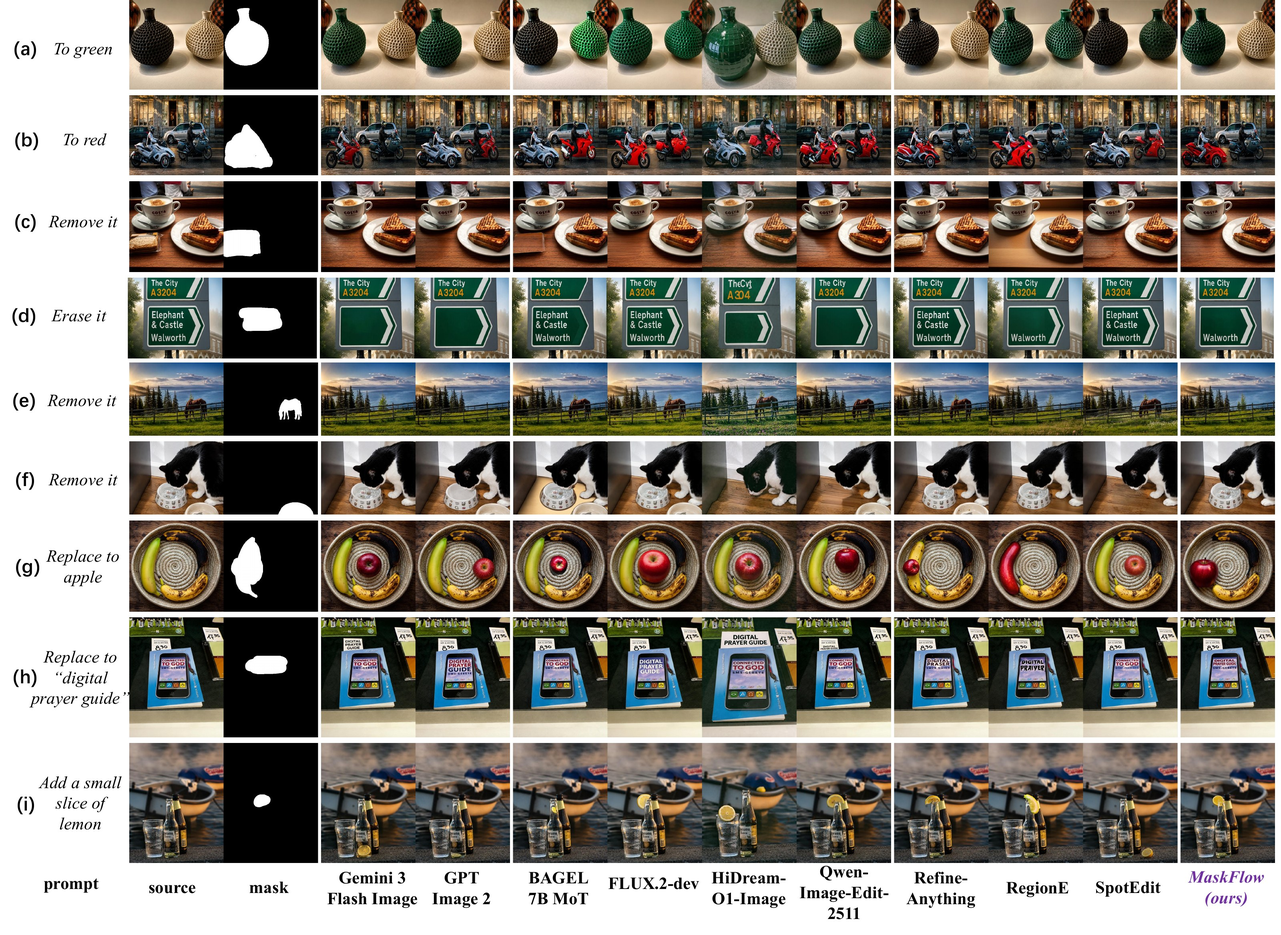
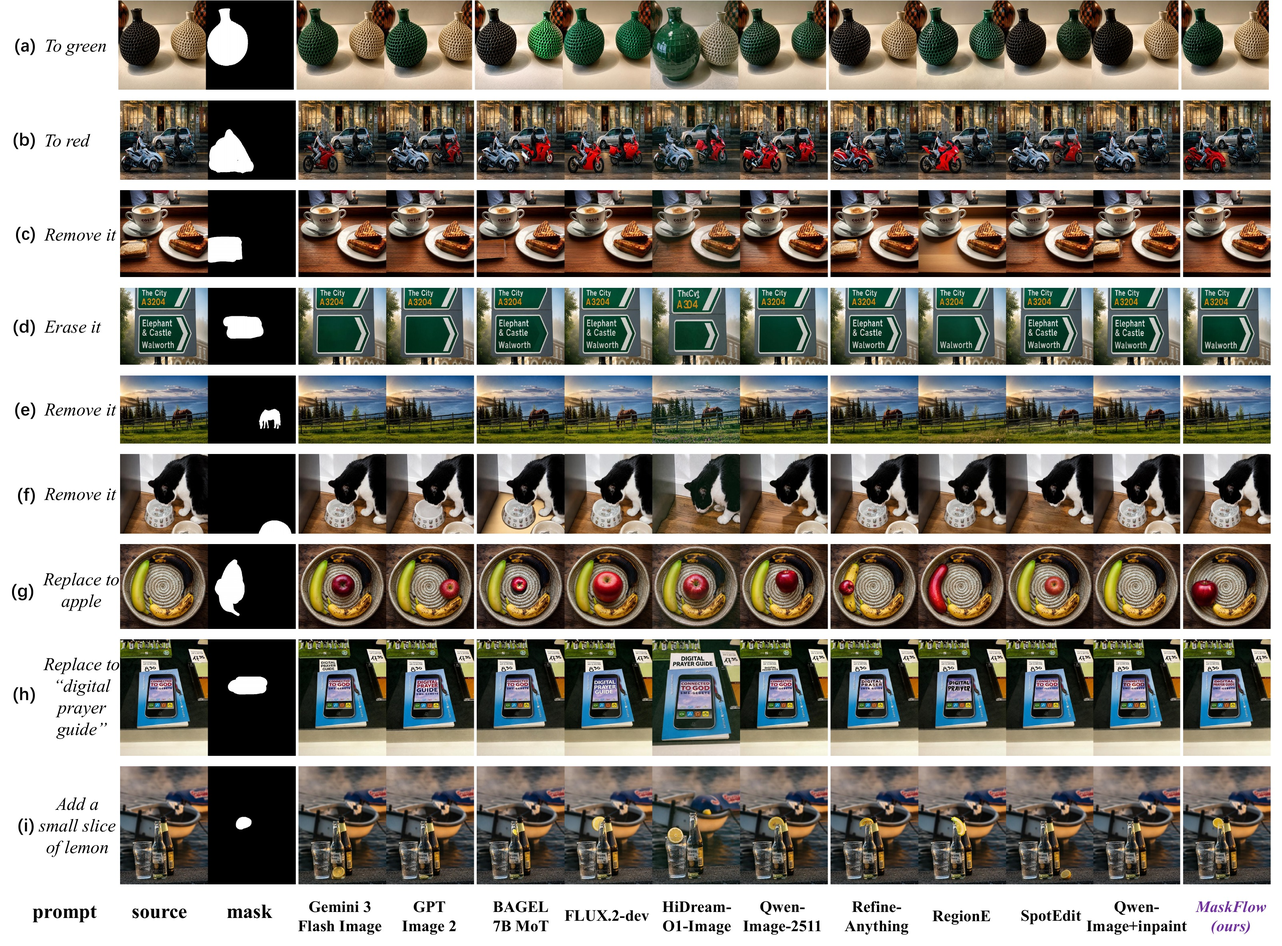
update compare

diff --git a/docs/index.html b/docs/index.html
@@ -169,10 +169,11 @@
                     <tr class="group-start"><td>BAGEL-7B-MoT</td><td>0.9464</td><td>0.9055</td><td>27.74</td><td>20.80</td><td>0.7560</td><td>0.0030</td><td>0.0648</td></tr>
                     <tr><td>FLUX.2-dev</td><td>0.9555</td><td>0.9138</td><td>29.99</td><td>19.48</td><td>0.6644</td><td>0.0063</td><td>0.0781</td></tr>
                     <tr><td>HiDream-O1-Image</td><td>0.9146</td><td>0.8435</td><td>45.34</td><td>13.17</td><td>0.3613</td><td>0.0450</td><td>0.4313</td></tr>
-                    <tr><td>QwenImage-Edit-2511</td><td>0.9492</td><td>0.9107</td><td>29.85</td><td>19.11</td><td>0.6412</td><td>0.0088</td><td>0.1269</td></tr>
+                    <tr><td>QwenImage-2511</td><td>0.9492</td><td>0.9107</td><td>29.85</td><td>19.11</td><td>0.6412</td><td>0.0088</td><td>0.1269</td></tr>
                     <tr class="group-start"><td>RefineAnything</td><td>0.9621</td><td>0.9057</td><td>26.41</td><td>21.29</td><td>0.7740</td><td>0.0000</td><td>0.0007</td></tr>
                     <tr><td>RegionE</td><td>0.9672</td><td>0.9313</td><td>25.83</td><td>21.03</td><td>0.7399</td><td>0.0031</td><td>0.0751</td></tr>
                     <tr><td>SpotEdit</td><td>0.9332</td><td>0.8924</td><td>56.49</td><td>10.89</td><td>0.3001</td><td>0.0844</td><td>0.5083</td></tr>
+                    <tr><td>QwenImage-Inpaint</td><td>0.9578</td><td>0.8946</td><td>27.50</td><td>21.58</td><td>0.7821</td><td>0.0005</td><td>0.0278</td></tr>
                     <tr class="ours group-start"><td>MaskFlow <b>Ours</b></td><td class="best">0.9782</td><td class="second">0.9532</td><td class="best">19.90</td><td class="best">22.60</td><td class="best">0.7846</td><td class="second">0.0000</td><td class="best">0.0000</td></tr>
                   </tbody>
                 </table>
